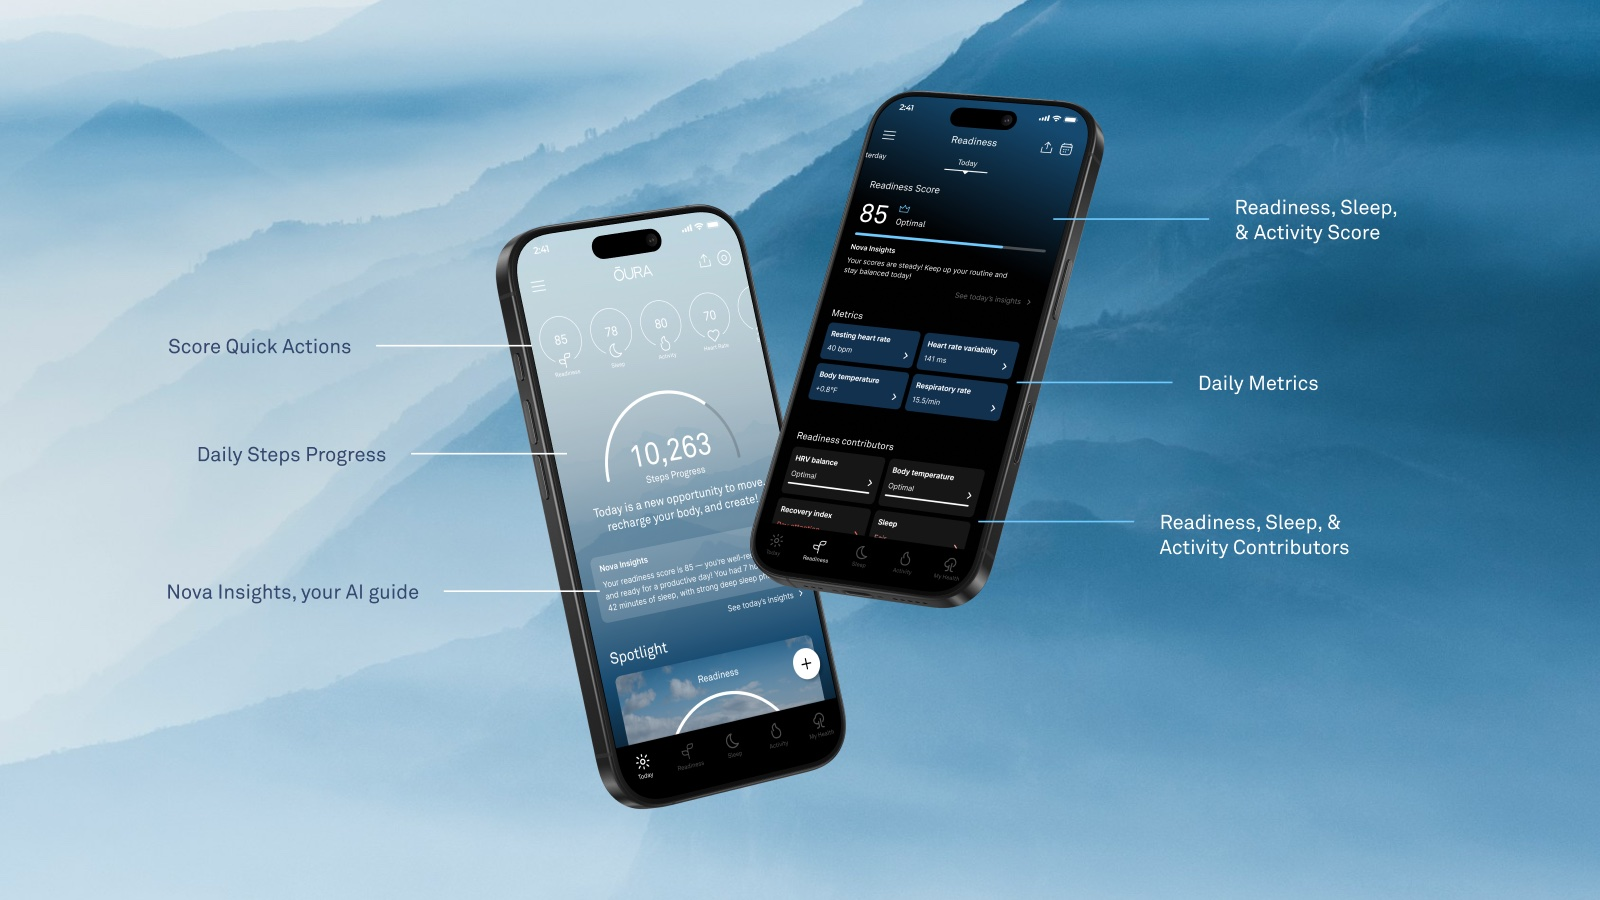
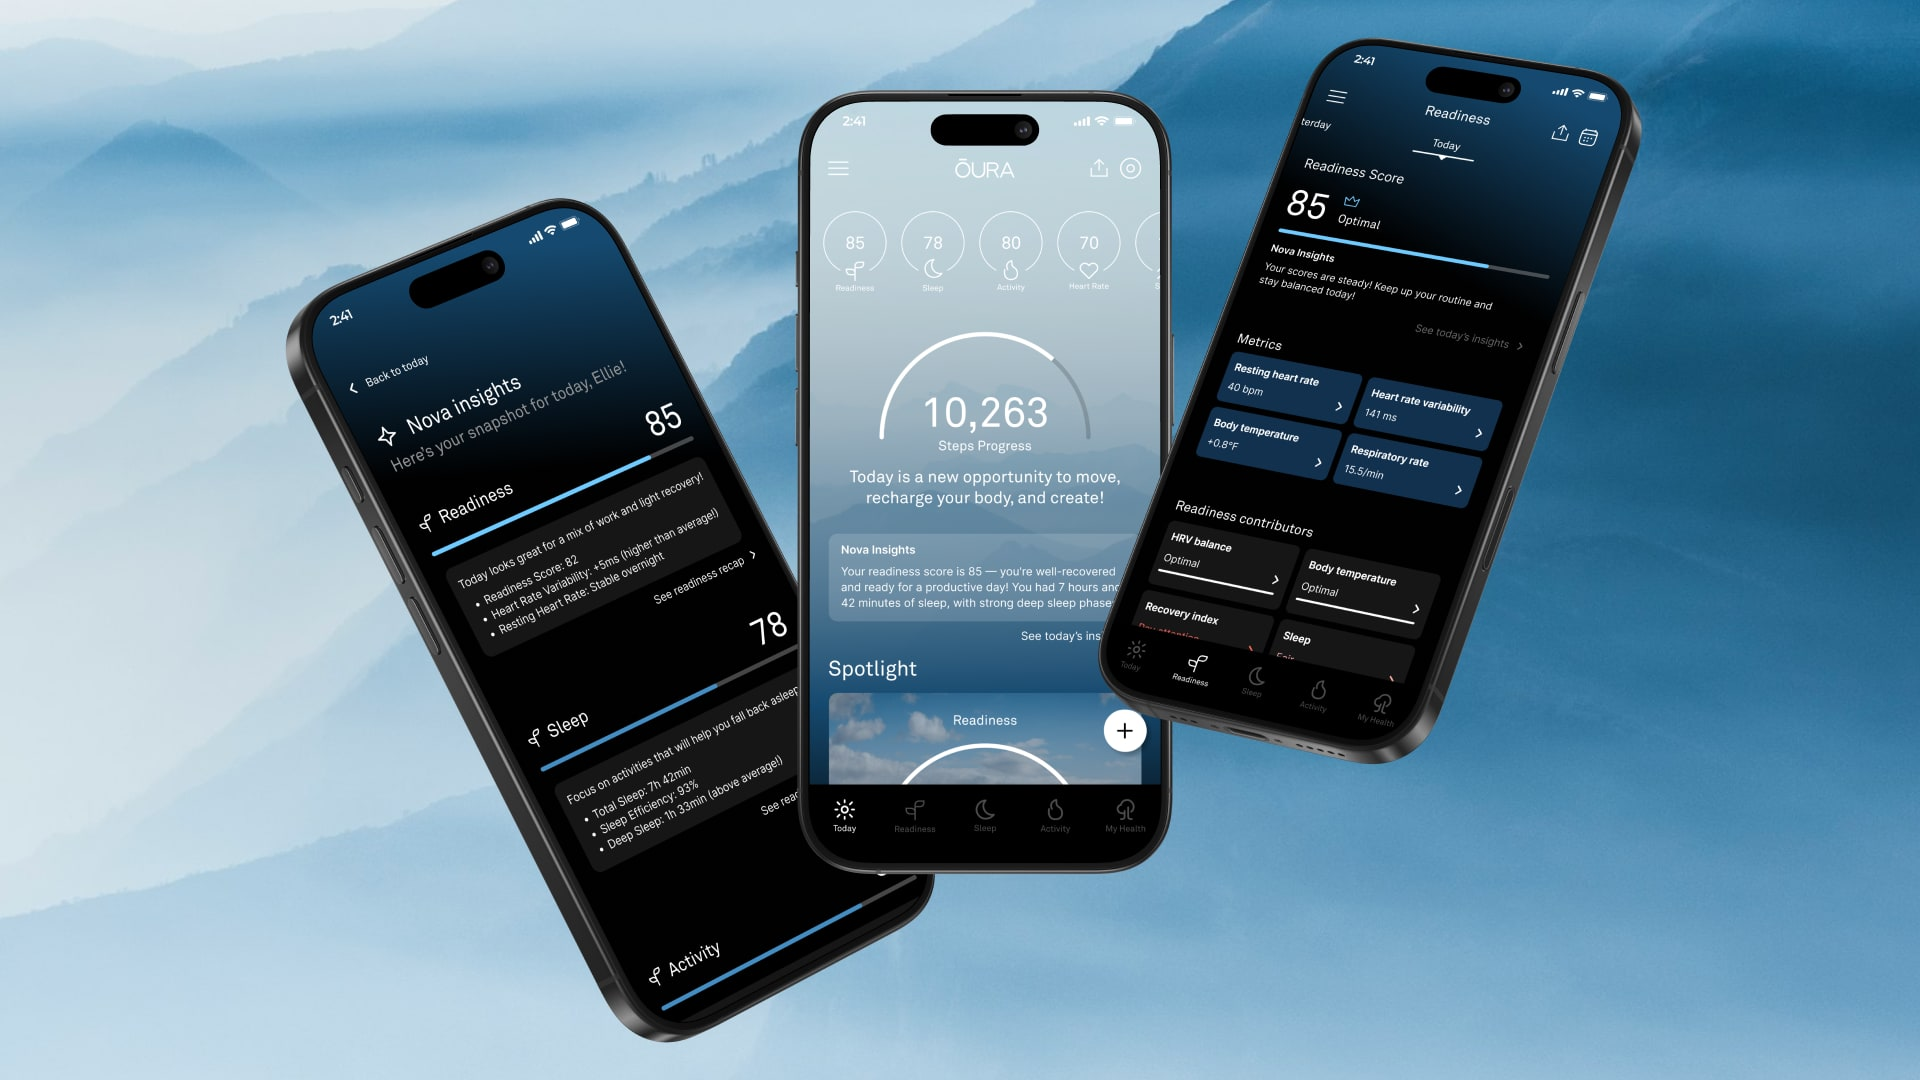
Oura goes live: new three-phone cover for the card and the page, coming soon removed (old hero component and its images retired)

diff --git a/src/content.config.ts b/src/content.config.ts
@@ -42,7 +42,7 @@ const projects = defineCollection({
       cover: media, // card thumbnail
       hero: media.optional(), // case study hero image
       // A custom-built hero section instead of an image (see src/pages/work/[slug].astro)
-      heroComponent: z.enum(['courtsync', 'rebound', 'oura']).optional(),
+      heroComponent: z.enum(['courtsync', 'rebound']).optional(),
       gallery: z.array(media).default([]),
     });
   },
